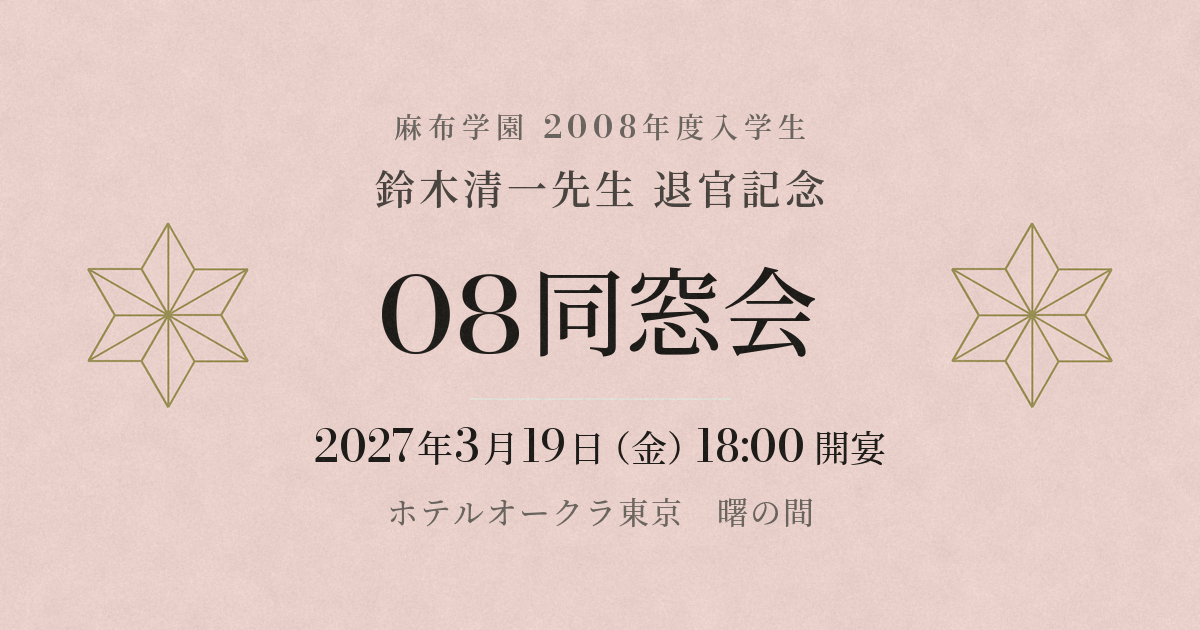
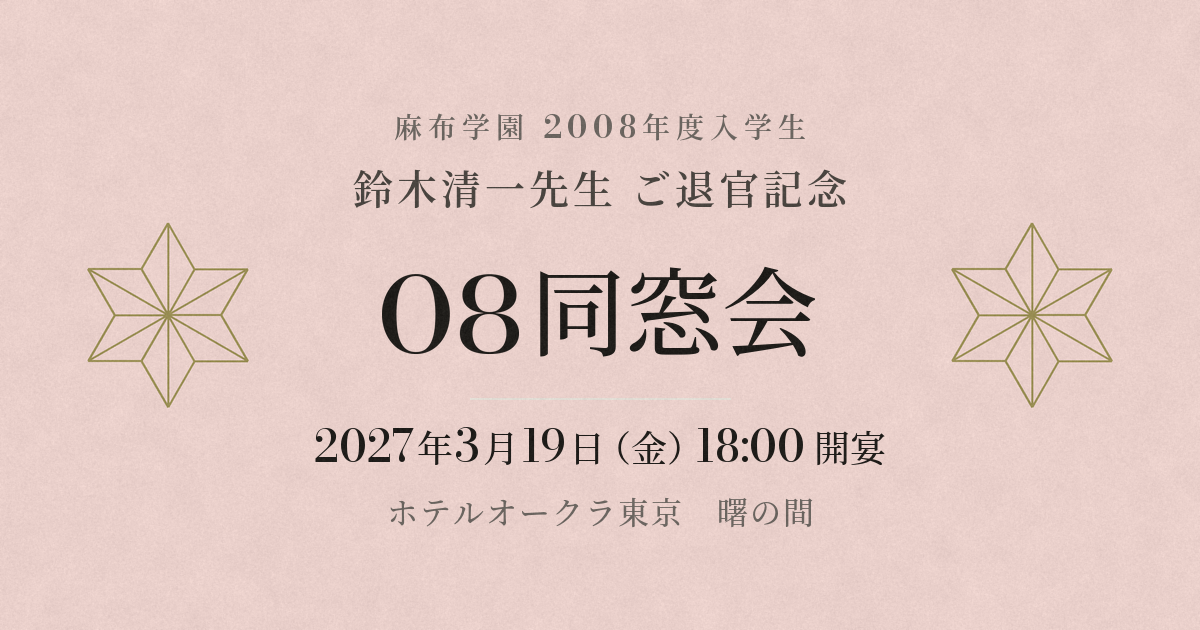
表記を「鈴木清一先生 ご退官記念」に統一（確認用プレビューは削除）
Claude-Session: https://claude.ai/code/session_017oQqni6gSGpKy1BQDBy5tA

Changed region(s): [[0.2775, 0.2714, 0.7092, 0.3317]]

diff --git a/index.html b/index.html
@@ -3,10 +3,10 @@
 <head>
 <meta charset="UTF-8">
 <meta name="viewport" content="width=device-width, initial-scale=1.0">
-<title>鈴木清一先生 退官記念 08同窓会</title>
-<meta name="description" content="2027年3月19日（金）ホテルオークラ東京にて開催。鈴木清一先生の退官を祝う麻布08同窓会のご案内。">
+<title>鈴木清一先生 ご退官記念 08同窓会</title>
+<meta name="description" content="2027年3月19日（金）ホテルオークラ東京にて開催。鈴木清一先生のご退官を祝う麻布08同窓会のご案内。">
 <meta property="og:type" content="website">
-<meta property="og:title" content="鈴木清一先生 退官記念 08同窓会">
+<meta property="og:title" content="鈴木清一先生 ご退官記念 08同窓会">
 <meta property="og:description" content="2027年3月19日（金）18:00〜 ホテルオークラ東京 曙の間">
 <meta property="og:image" content="https://azabu08-chin.vercel.app/ogp.png">
 <meta property="og:image:width" content="1200">
@@ -188,7 +188,7 @@
   <div class="wrap">
     <p class="eyebrow">麻布学園 2008年度入学生</p>
     <h1>
-      <small>鈴木清一先生 退官記念</small>
+      <small>鈴木清一先生 ご退官記念</small>
       08同窓会
     </h1>
     <p class="date-line">
